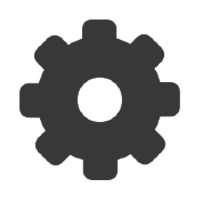
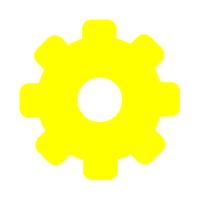
menu fixes before prototype.

diff --git a/client/sidemenu.js b/client/sidemenu.js
@@ -1,48 +1,17 @@
-import Utils from './utils.js';
-const { until } = Utils;
-
 let gearImageRotation = 0, renderGearImageRotation = 0;
 let gearImg = new Image(); let gearImgLoaded = false;
 let cachedBg = window.defaultColors.tile;
-let winpadIndex = 0;
-let lastWinpadIndex = 0;
+let gearRadius = 60, gearX = 850, gearY = 1550;
 let hoveringOverCog = false;
 let settingsMenuActive = false;
 let settingsGradient;
 let settingsMenuAnimation = 0;
 let hoveringOverLock = false;
-gearImg.src = updateGearImage(window.defaultColors.tile);
-async function updateGearImage(col){
-    gearImgLoaded = false;
-    gearImg.src = await generateGearImage(col);
-    gearImg.onload = () => {
-        gearImgLoaded = true;
-    }
-}
-async function generateGearImage(col){
-    await until(()=>{return window.gearImgLoaded === true});
-    const c = document.createElement('canvas');
-    const x = c.getContext('2d');
-    c.width = window.gearImg.width;
-    c.height = window.gearImg.height;
-    x.drawImage(window.gearImg, 0, 0);
-    x.globalCompositeOperation = 'source-atop';
-    x.fillStyle = col;
-    cachedBg = col;
-    x.fillRect(0,0,c.width,c.height);
-    
-    return c.toDataURL();
-}
+gearImg.src = './gfx/yellowgear.png';
+gearImg.onload = () => {gearImgLoaded = true;}
 
 export default function drawUi(canvas, ctx, isLast=false){
-    const o = window.obstacles[isLast === true ? lastWinpadIndex : winpadIndex];
-    if(o === undefined) return;
-    let [middleX, middleY] = window.generateTopLeftCoordinates(o);
-    middleX += o.dimensions.x / 2;
-    middleY += o.dimensions.y / 2;
-    const imageSize = Math.max(50, Math.min(o.dimensions.x, o.dimensions.y) * 0.72);
-
-    if((window.mouseX - middleX) ** 2 + (window.mouseY - middleY) ** 2 < imageSize ** 2 / 4){
+    if((window.mouseX - gearX) ** 2 + (window.mouseY - gearY) ** 2 < gearRadius ** 2 / 4){
         gearImageRotation += 0.012;
         hoveringOverCog = true;
     } else {
@@ -52,11 +21,11 @@ export default function drawUi(canvas, ctx, isLast=false){
 
     if(gearImgLoaded === true){
         ctx.globalAlpha = 0.3;
-        ctx.translate(middleX, middleY);
+        ctx.translate(gearX, gearY);
         if(renderGearImageRotation !== 0)ctx.rotate(renderGearImageRotation);
-        ctx.drawImage(gearImg, -imageSize/2, -imageSize/2, imageSize, imageSize);
+        ctx.drawImage(gearImg, -gearRadius/2, -gearRadius/2, gearRadius, gearRadius);
         if(renderGearImageRotation !== 0)ctx.rotate(-renderGearImageRotation);
-        ctx.translate(-middleX, -middleY);
+        ctx.translate(-gearX, -gearY);
         ctx.globalAlpha = 1;
     }
 
@@ -75,7 +44,7 @@ export default function drawUi(canvas, ctx, isLast=false){
         ctx.fillStyle = settingsGradient;
         ctx.fillRect(0,0,canvas.width,canvas.height);
 
-        ctx.drawImage(window.scrollLocked === true ? window.lockImg : window.unlockedImg, 100, 100, 700, 700);
+        ctx.drawImage(window.scrollLocked === true ? window.lockImg : window.unlockedImg, 100, 100, 700, 700);// TODO: make lockImg red and unlockedImg green
         if(window.mouseX > 100 && window.mouseX < 800 && window.mouseY > 100 && window.mouseY < 800){
             hoveringOverLock = true;
         } else {
@@ -98,17 +67,6 @@ function interpolateDirection(d1, d2, time) {
 
 function smoothstep(t){
     return t * t * (1-t) + (1 - (1 - t) * (1 - t)) * t;
-}
-
-window.updateSettingsCog = () => {
-    if(window.colors.tile !== cachedBg) updateGearImage(window.colors.tile);
-    lastWinpadIndex = winpadIndex;
-    for(let i = 0; i < window.obstacles.length; i++){
-        if(window.obstacles[i].isWinpad === true){
-            winpadIndex = i;
-            break;
-        }
-    }
 }
 
 let settingsDrag = false; // whether the user is in the midst of a settings drag

diff --git a/client/scroll.js b/client/scroll.js
@@ -15,7 +15,6 @@ if(isEditor === true || isServer === true){
     scroll = () => {};
 } else if(location.href.includes('standalone') === true){
     window.standalone = true;
-    window.updateSettingsCog = () => {};
     const split = location.href.split('/');
     reqUrl += '/' + split[split.length - 1];
     scroll = () => {};
@@ -127,9 +126,6 @@ async function replaceScript(){
     document.body.appendChild(scriptElement);
 
     nextCode = undefined;
-
-    // update settings menu after new obstacles are added
-    window.updateSettingsCog();
 }
 
 window.removeScript = function removeScript(){

diff --git a/client/main.js b/client/main.js
@@ -269,7 +269,6 @@ if(isEditor !== true){
             renderUi = renderUi.default;
         })();
     } else {
-        window.updateSettingsCog = () => {};
         renderUi = (canvas, ctx) => {
             // draw the movement helper arrow
         }
